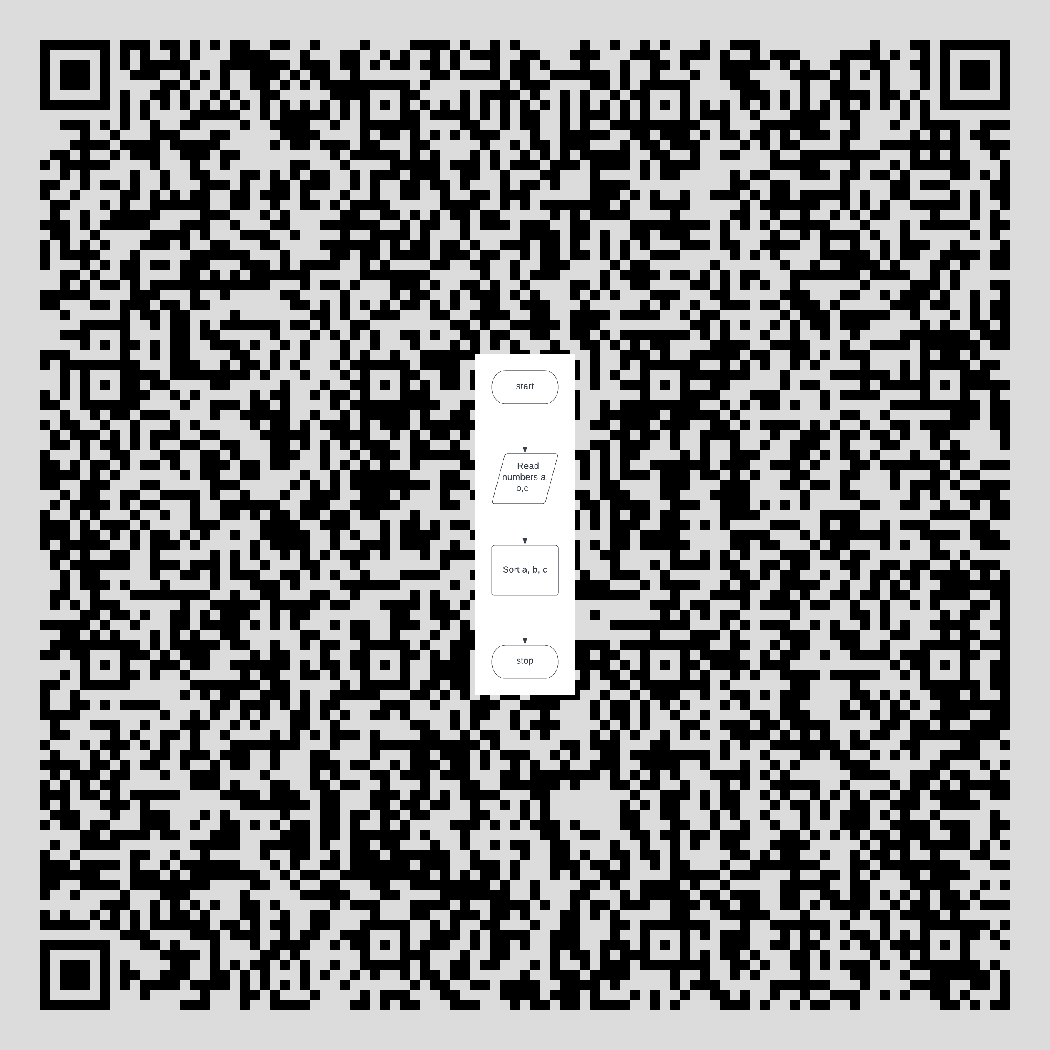
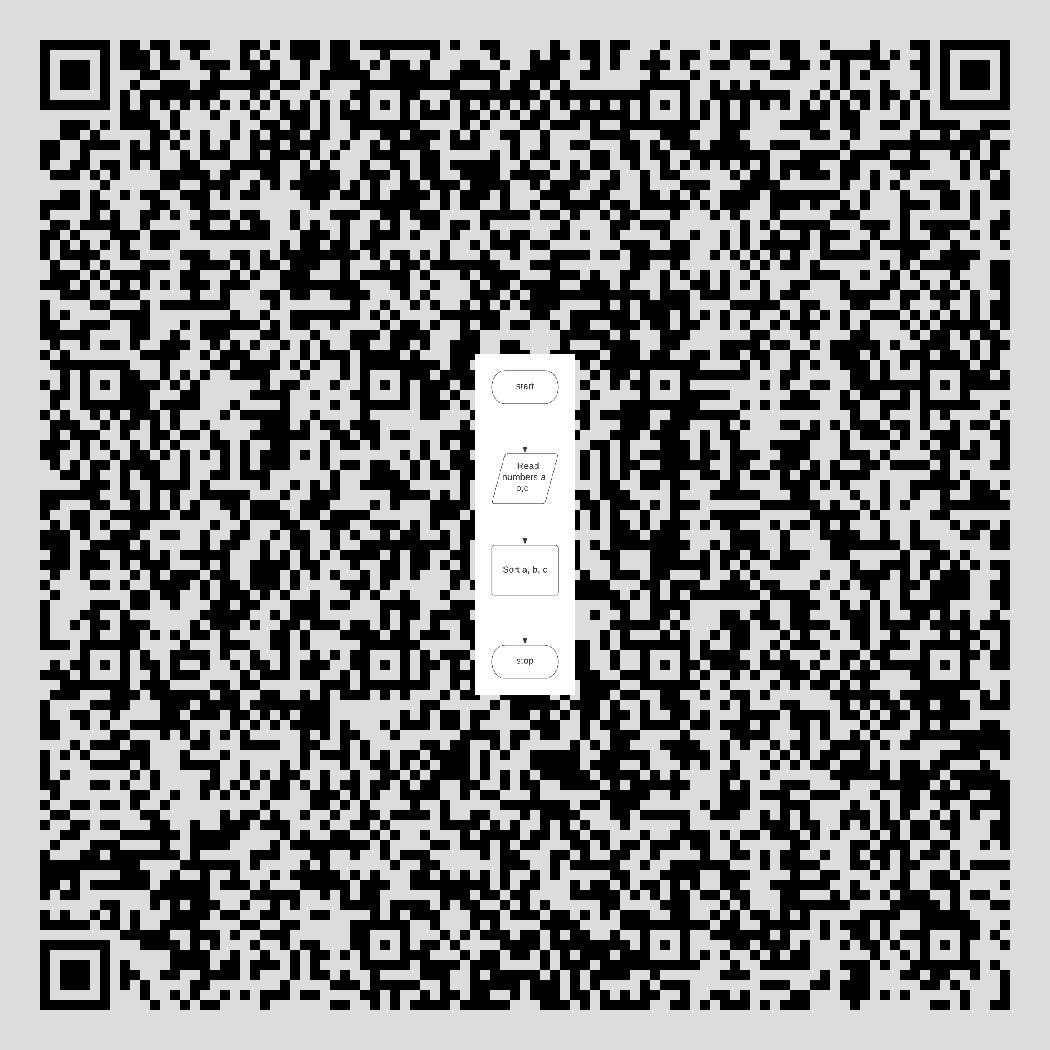
Fix urls

Changed region(s): [[0.0305, 0.0305, 0.9752, 0.9752]]

diff --git a/feedback/templates/feedback/feedback.html b/feedback/templates/feedback/feedback.html
@@ -10,7 +10,7 @@
                 <h5>Considering your experience with <b>{{ brand_name }}</b>, how likely would you be to recommend <b>{{ brand_product_name }}</b> to your friend or colleague?</h5>
                 <br>
                 <h4 class="text-center text-success"><b>Give Feedback.</b></h4>
-                <iframe src="https://100035.pythonanywhere.com/?brand_name={{ brand_name }}&product_name={{ brand_product_name }}" ></iframe >
+                <iframe src="https://100035.pythonanywhere.com/?brand={{ brand_name }}&product={{ brand_product_name }}"  style='-webkit-transform:scale(0.7);-moz-transform-scale(0.7);' FRAMEBORDER='no' BORDER='0' SCROLLING='no'></iframe >
             </div>
             <br>
             <form action='/brandurl/' method="POST">

diff --git a/feedback/views.py b/feedback/views.py
@@ -65,12 +65,12 @@ def create_Qr_Code(request):
         brand_logo = encode(key,brand_logo_formatted)
 
         # Application Links
-        brand_qr_code_url =  f"{base_url}brandurl/?brand={brand_name}&product={brand_product_name}&logo={brand_logo.decode()}"
+        brand_qr_code_url =  f"{base_url}/brandurl/?brand={brand_name}&product={brand_product_name}&logo={brand_logo.decode()}"
        
         
 
         # create QR from brand data.
-        qrgen(brand_logo_raw, f"{base_url}brandurl", brand_name.decode(), brand_product_name.decode(), f"media/qrcodes/{brand_logo_formatted}",brand_logo.decode())
+        qrgen(brand_logo_raw, f"{base_url}/brandurl", brand_name.decode(), brand_product_name.decode(), f"media/qrcodes/{brand_logo_formatted}",brand_logo.decode())
 
         # Save Brand Data   
         brand = Brand(brand_name=brand_name, brand_product_name=brand_product_name, brand_logo=brand_logo_raw,  brand_qr_code_picture=f'media/qrcodes/{brand_logo_formatted}', brand_qr_code_url=brand_qr_code_url)
@@ -86,7 +86,7 @@ def create_Qr_Code(request):
 
         
 
-        brand_qr_code_url = f"{base_url}brandurl?brand={brand_name.decode()}&product={brand_product_name.decode()}&logo={brand_logo.decode()}"
+        brand_qr_code_url = f"{base_url}/brandurl?brand={brand_name.decode()}&product={brand_product_name.decode()}&logo={brand_logo.decode()}"
         
         context["brand_qr_code_url"] = brand_qr_code_url
         context["brand_qr_code_picture"] = brand_logo_formatted
@@ -138,7 +138,7 @@ def emailqr(request):
 
         # Mail Content
         subject = 'Embed your Feedback Code to your website.'
-        htmlgen =  f"<div style='padding: 50px'>Dear {brand_user_name}, <br> QR code link  is <strong><a href='{brand_qr_code_picture_url}'>{brand_qr_code_picture_url}</a></strong> <br/> <h2><br> Embed this code to your website or copy and paste below your website</h2><br> <div style='text-align: center;'><img src='{base_url}/media/qrcodes/{ brand_qr_code_picture}' alt='qr_code'  style='height: 200px; width: 200px;' /></div><br><code>&lt;iframe width='300' height='500' style='background-color:white' src='{brand_qr_code_url}' style='-webkit-transform:scale(0.7);-moz-transform-scale(0.7);' FRAMEBORDER='no' BORDER='0' SCROLLING='no'&gt;&lt;/iframe&gt;</code><br><br><br> Best regards, <br> <strong>Voice of Customer Feedback Team</strong></div>"
+        htmlgen =  f"<div style='padding: 50px'>Dear {brand_user_name}, <br> QR code link  is <strong><a href='{brand_qr_code_picture_url}'>{brand_qr_code_picture_url}</a></strong> <br/> <h2><br> Embed this code to your website or copy and paste below your website</h2><br> <div style='text-align: center;'><img src='http://127.0.0.1:8000/media/qrcodes/{brand_qr_code_picture}' alt='qr_code'  style='height: 200px; width: 200px;' /></div><br><code>&lt;iframe width='300' height='500' style='background-color:white' src='{brand_qr_code_url}' style='-webkit-transform:scale(0.7);-moz-transform-scale(0.7);' FRAMEBORDER='no' BORDER='0' SCROLLING='no'&gt;&lt;/iframe&gt;</code><br><br><br> Best regards, <br> <strong>Voice of Customer Feedback Team</strong></div>"
         plain_message = strip_tags(htmlgen)
         from_email = settings.EMAIL_HOST_USER
         
@@ -159,7 +159,7 @@ def recommend(request):
         # Mail Content
         subject = 'Voice of Customer Feedback'
         message = 'Your QR Code is attached to this email.'
-        htmlgen = '<h1>Dear {friend_name },</h1> <br> <p>Give your user ability to review your brand and manage the feedback.,Embed the QR Code in your website or app. </p> <br/> <strong>QR Code Link<a href="http://'
+        htmlgen = '<h1>Dear { friend_name },</h1> <br> <p>Give your user ability to review your brand and manage the feedback.,Embed the QR Code in your website or app. </p> <br/>'
         from_email = settings.EMAIL_HOST_USER
 
         # Send Email
@@ -171,8 +171,6 @@ def recommend(request):
 
 def feedback(request):
     context = {}
-    
-
     # Brand Data & Rating
     if request.method == 'POST':
         rating = request.POST['rating']
